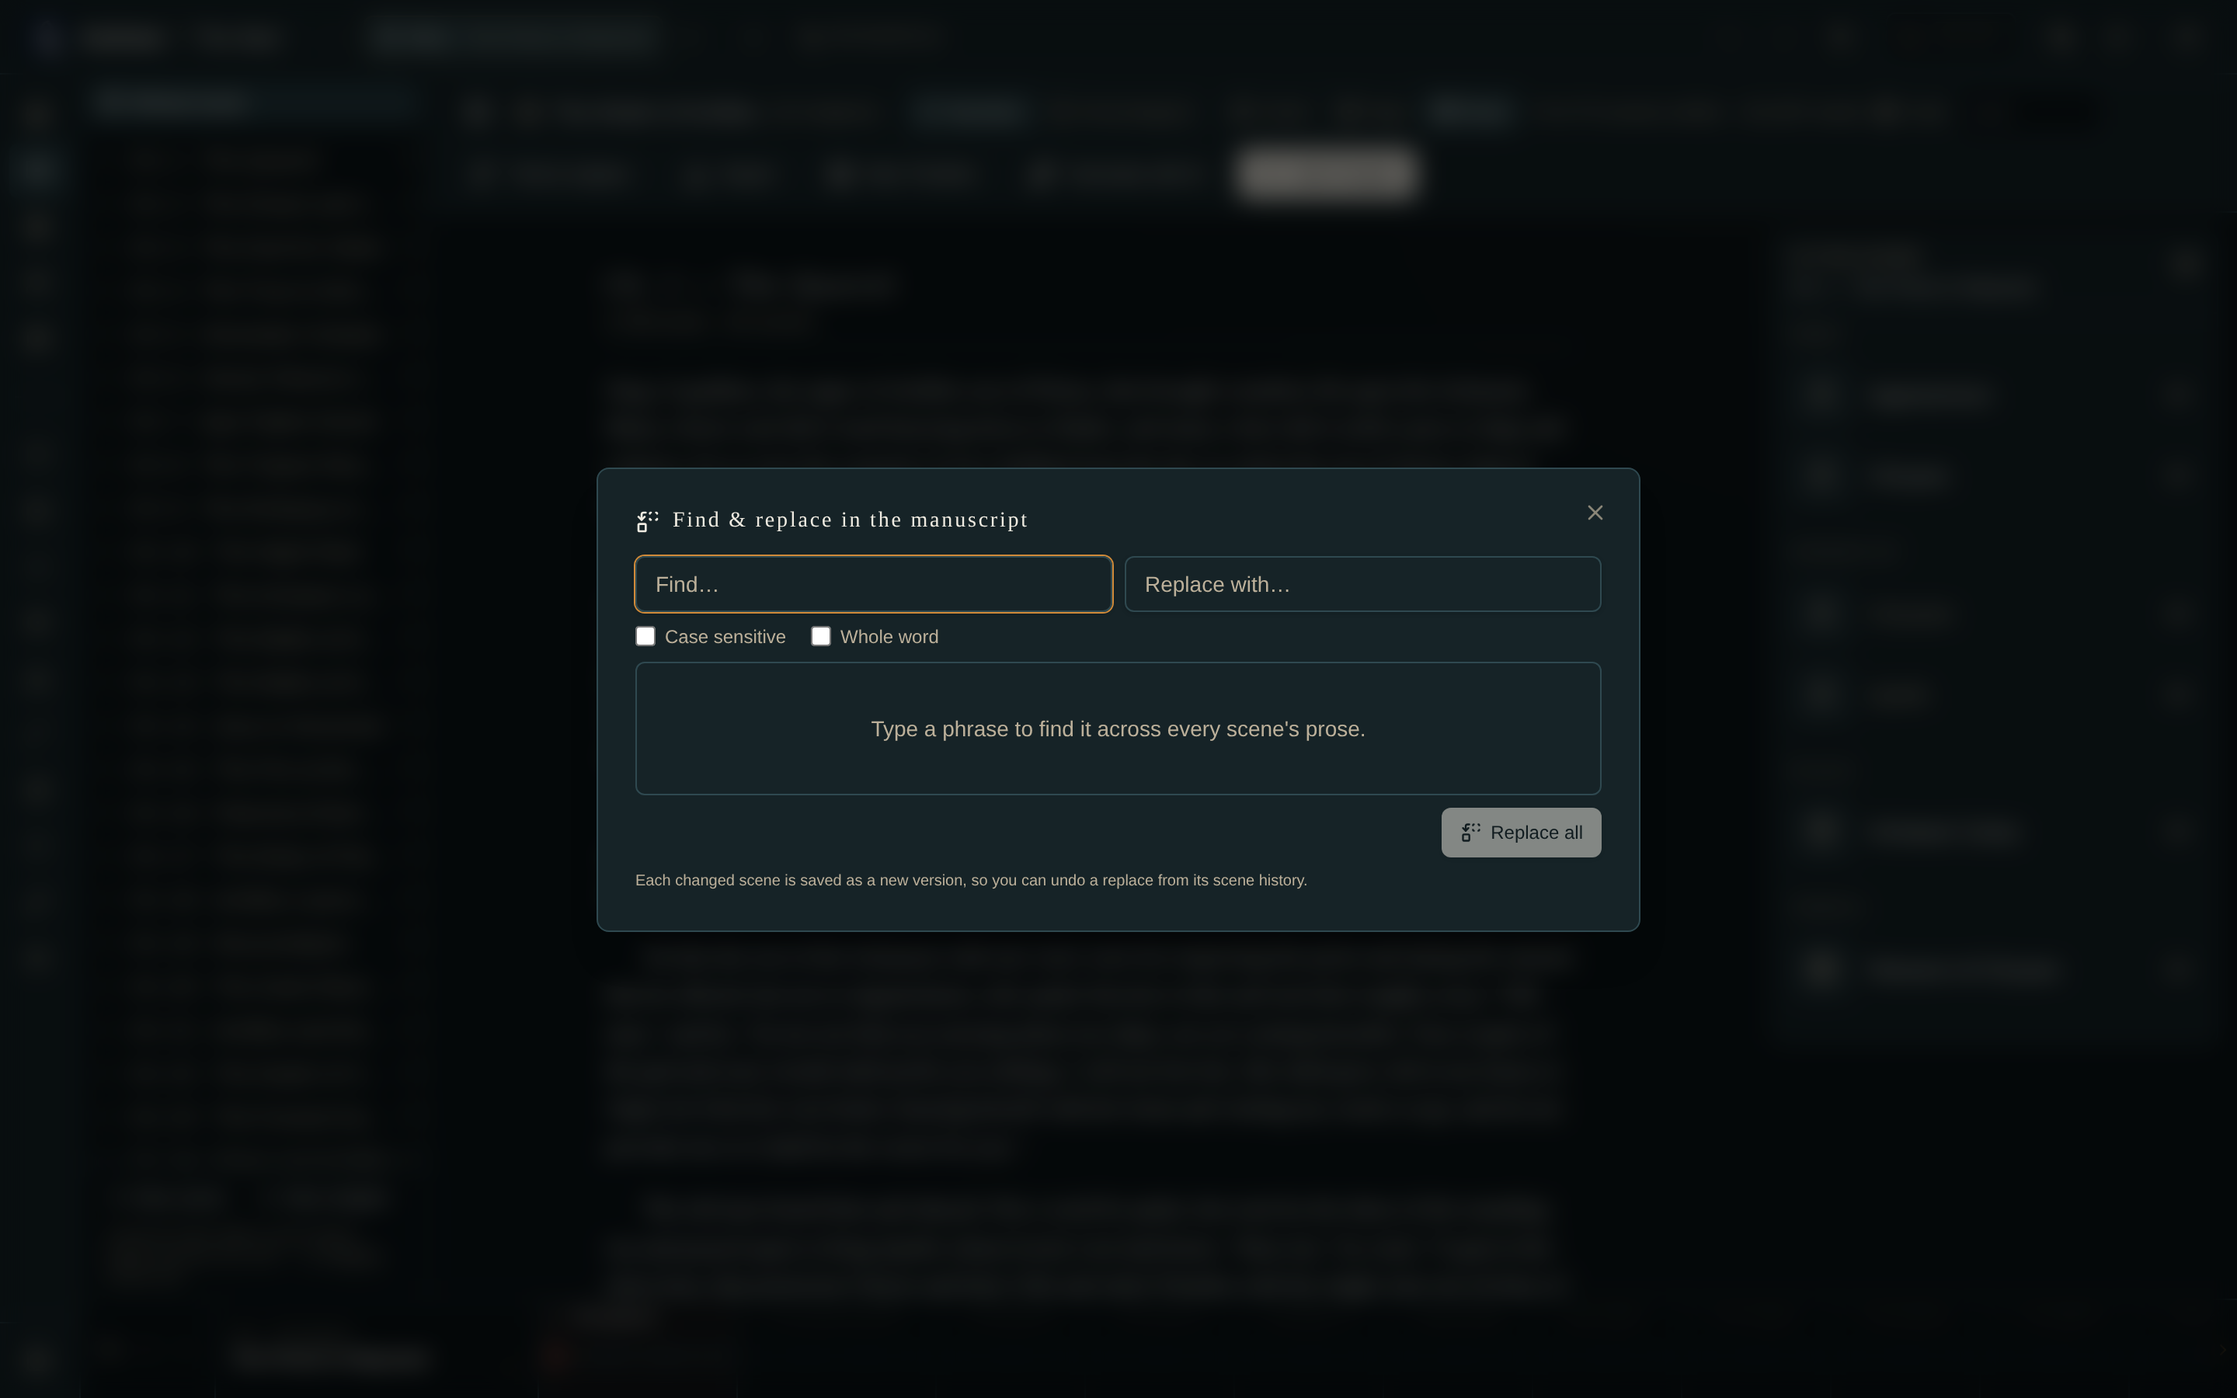
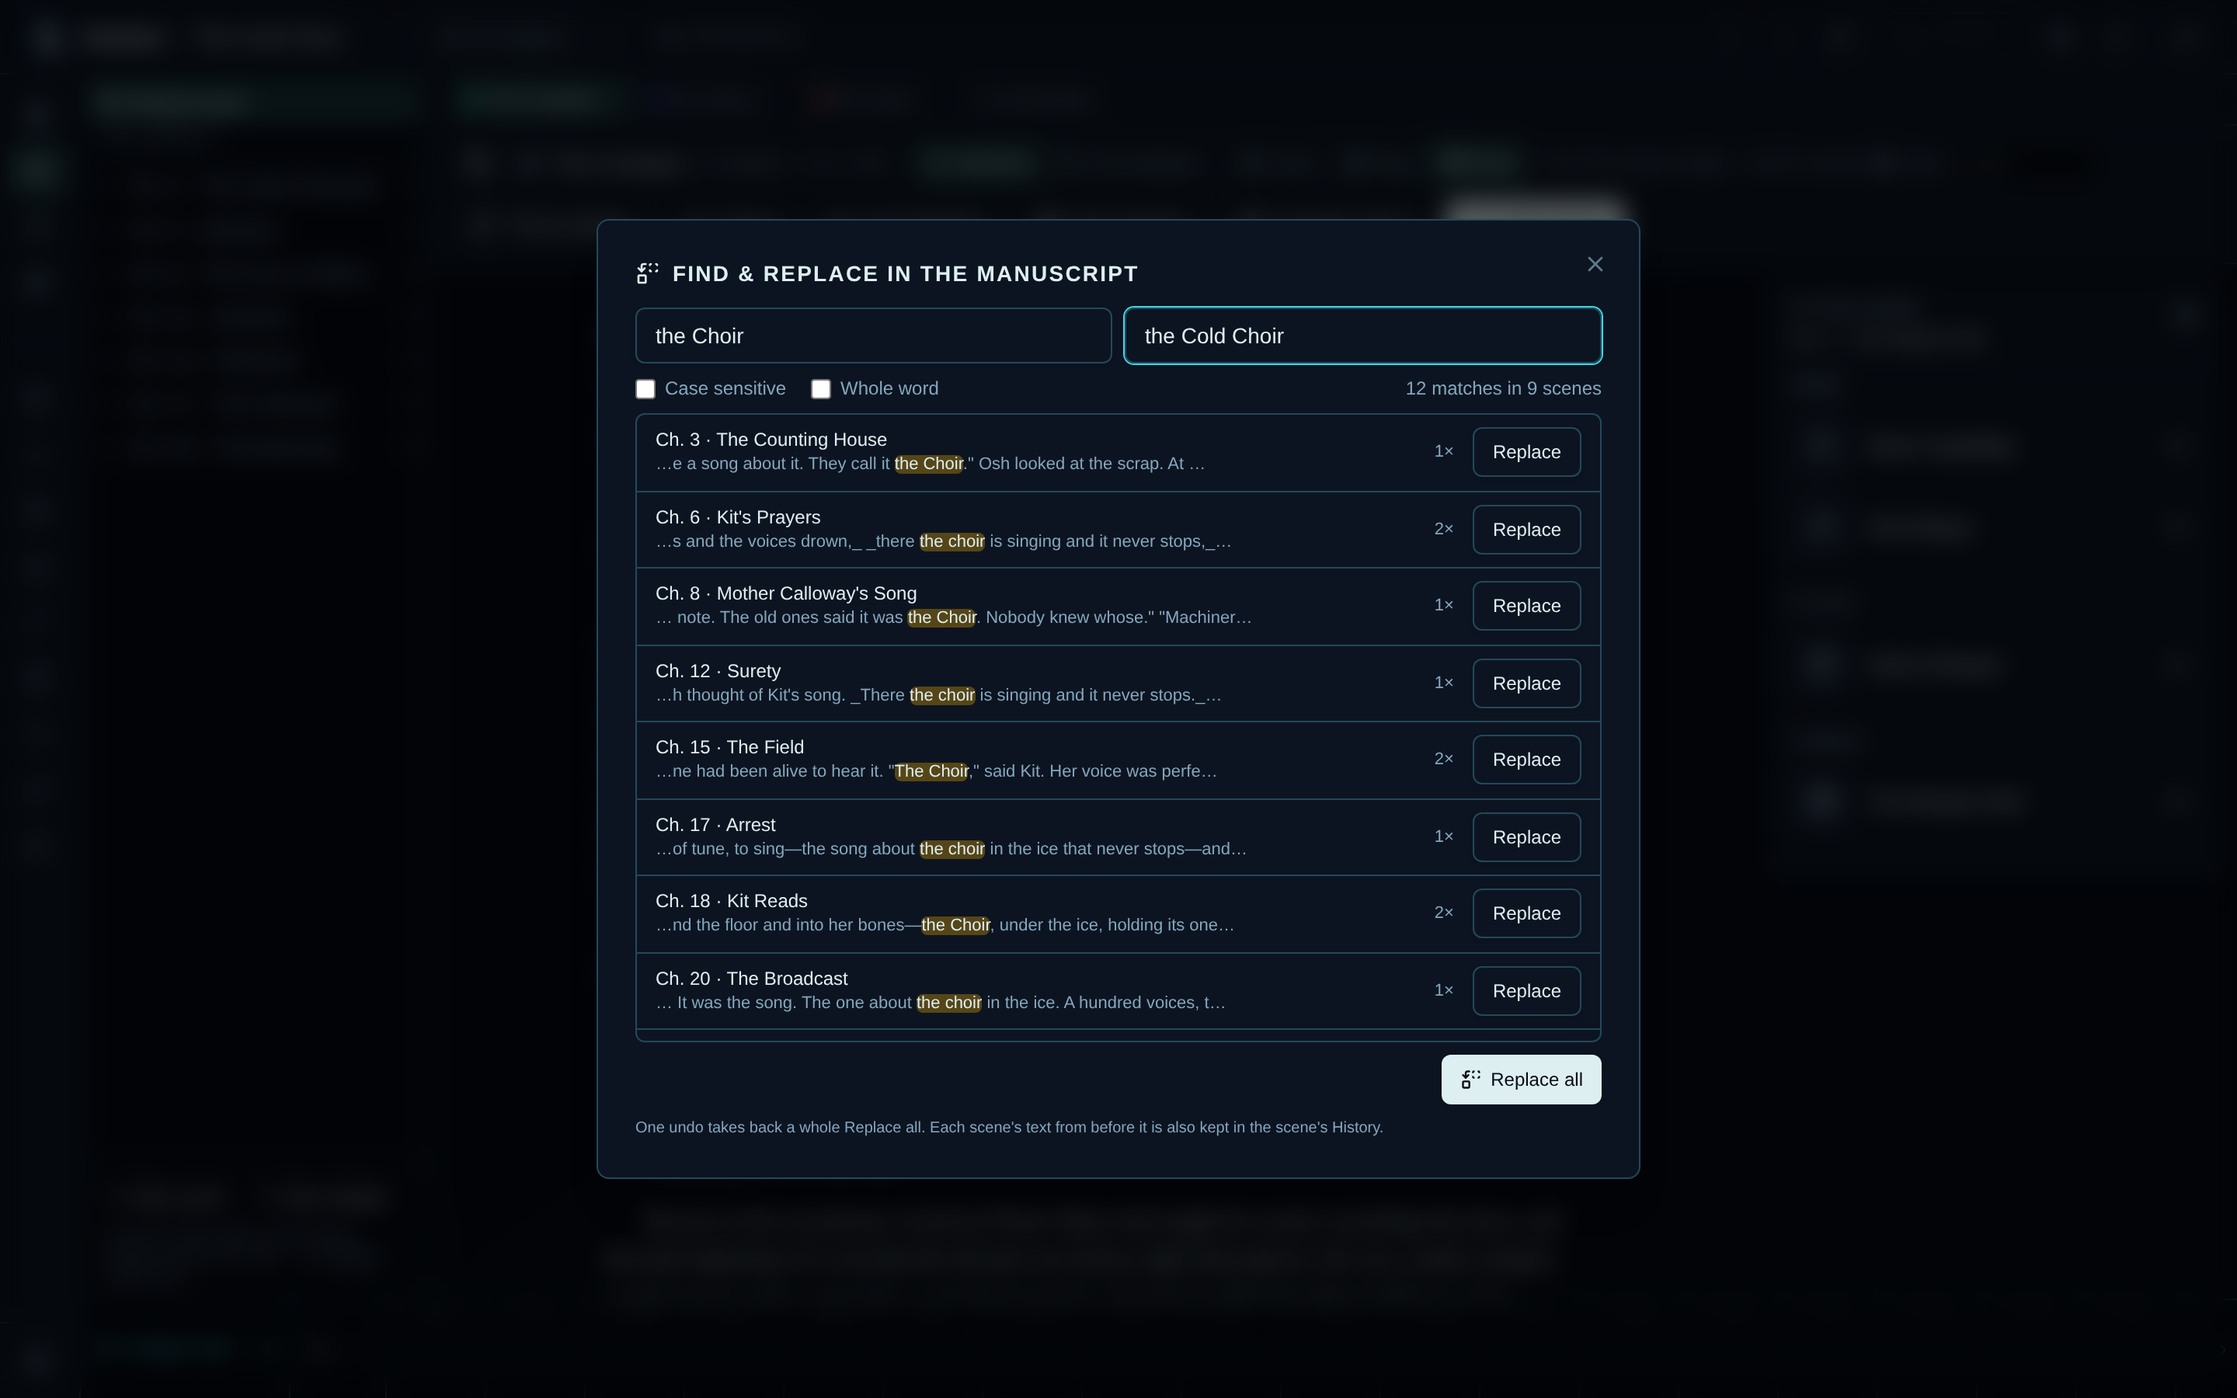
Replace all replaces all, in one write and one undo
Writer run 10: "*" -> "_" over 518 matches in 36 scenes left 352, then
292, and two more presses to reach 0. Each scene was its own awaited
write, so the dialog's live count fell while it worked and a second press
ran over a list half replaced.

replaceSceneTexts writes every scene in one transaction and one journal
group, the prose on its operations so undo restores it, each scene's
earlier text kept in its History. The dialog waits for it ("Replacing…",
buttons disabled) and only then says what it replaced; the character
rename rides in the same act.

Claude-Session: https://claude.ai/code/session_012HJuZ3q12imk2q9iq8d945

Changed region(s): [[0.25, 0.1867, 0.75, 0.8089], [0.5312, 0.0933, 0.75, 0.1556], [0.5, 0.2178, 0.5938, 0.2489]]

diff --git a/src/features/manuscript/FindReplaceDialog.tsx b/src/features/manuscript/FindReplaceDialog.tsx
@@ -4,7 +4,8 @@ import { Replace, Users } from 'lucide-react'
 import { Dialog, DialogContent } from '@/components/ui/dialog'
 import { Button } from '@/components/ui/button'
 import { Input } from '@/components/ui/input'
-import { useWorldSceneTexts, setSceneText } from '@/db/hooks/useManuscript'
+import { useWorldSceneTexts } from '@/db/hooks/useManuscript'
+import { replaceSceneTexts } from '@/db/hooks/useSceneStructure'
 import { useWorldEvents, useWorldChapters } from '@/db/hooks/useTimeline'
 import { useCharacters, updateCharacter } from '@/db/hooks/useCharacters'
 import {
@@ -30,6 +31,8 @@ export function FindReplaceDialog({ open, onOpenChange, worldId }: FindReplaceDi
   const [wholeWord, setWholeWord] = useState(false)
   const [renameChars, setRenameChars] = useState(true)
   const [summary, setSummary] = useState<string | null>(null)
+  // While a replace is being written: the buttons wait for it rather than run again over a list it is changing.
+  const [busy, setBusy] = useState(false)
 
   const opts: FindOptions = useMemo(() => ({ caseSensitive, wholeWord }), [caseSensitive, wholeWord])
 
@@ -65,27 +68,37 @@ export function FindReplaceDialog({ open, onOpenChange, worldId }: FindReplaceDi
     [characters, find, opts]
   )
 
+  const label = `Replaced “${find}” with “${replace}”`
+
   async function replaceScene(eventId: string, text: string) {
     const { text: next } = replaceAll(text, find, replace, opts)
-    await setSceneText(worldId, eventId, next)
+    setBusy(true)
+    try { await replaceSceneTexts(worldId, [{ eventId, text: next }], { label }) } finally { setBusy(false) }
   }
 
   async function replaceAllScenes() {
-    let scenesChanged = 0
-    let total = 0
-    for (const r of results) {
-      const { text: next, count } = replaceAll(r.scene.text, find, replace, opts)
-      if (count > 0) { await setSceneText(worldId, r.scene.eventId, next); scenesChanged++; total += count }
-    }
-    let renamed = 0
-    if (renameChars && replace) {
-      for (const c of matchedChars) {
-        await updateCharacter(c.id, {
-          name: replace,
-          ...renameNames(c, (a) => replaceAll(a, find, replace, opts).text),
-        })
-        renamed++
-      }
+    const changes = results
+      .map((r) => ({ eventId: r.scene.eventId, ...replaceAll(r.scene.text, find, replace, opts) }))
+      .filter((c) => c.count > 0)
+    const scenesChanged = changes.length
+    const total = changes.reduce((n, c) => n + c.count, 0)
+    const renaming = renameChars && replace ? matchedChars : []
+    const renamed = renaming.length
+    setBusy(true)
+    try {
+      await replaceSceneTexts(worldId, changes, {
+        label,
+        also: async () => {
+          for (const c of renaming) {
+            await updateCharacter(c.id, {
+              name: replace,
+              ...renameNames(c, (a) => replaceAll(a, find, replace, opts).text),
+            })
+          }
+        },
+      })
+    } finally {
+      setBusy(false)
     }
     const parts = [`Replaced ${total} occurrence${total === 1 ? '' : 's'} in ${scenesChanged} scene${scenesChanged === 1 ? '' : 's'}`]
     if (renamed > 0) parts.push(`and renamed ${renamed} character${renamed === 1 ? '' : 's'}`)
@@ -164,7 +177,7 @@ export function FindReplaceDialog({ open, onOpenChange, worldId }: FindReplaceDi
                       )}
                     </div>
                     <span className="shrink-0 text-[11px] tabular-nums text-[hsl(var(--muted-foreground))]">{r.count}×</span>
-                    <Button size="sm" variant="outline" className="shrink-0" onClick={() => replaceScene(r.scene.eventId, r.scene.text)}>
+                    <Button size="sm" variant="outline" className="shrink-0" disabled={busy} onClick={() => replaceScene(r.scene.eventId, r.scene.text)}>
                       Replace
                     </Button>
                   </li>
@@ -178,14 +191,14 @@ export function FindReplaceDialog({ open, onOpenChange, worldId }: FindReplaceDi
             <Button
               size="sm"
               className="ml-auto gap-1.5"
-              disabled={results.length === 0}
+              disabled={results.length === 0 || busy}
               onClick={replaceAllScenes}
             >
-              <Replace className="h-3.5 w-3.5" /> Replace all
+              <Replace className="h-3.5 w-3.5" /> {busy ? 'Replacing…' : 'Replace all'}
             </Button>
           </div>
           <p className="text-[10px] text-[hsl(var(--muted-foreground))]">
-            Each changed scene is saved as a new version, so you can undo a replace from its scene history.
+            One undo takes back a whole Replace all. Each scene's text from before it is also kept in the scene's History.
           </p>
         </div>
       </DialogContent>

diff --git a/e2e/findReplace.spec.ts b/e2e/findReplace.spec.ts
@@ -1,4 +1,6 @@
-import { test, expect } from '@playwright/test'
+import { test, expect, type Page } from '@playwright/test'
+import { fileURLToPath } from 'url'
+import * as path from 'path'
 import { resetDB } from './helpers/reset'
 
 // Drives the manuscript-wide find & replace, including the character-rename
@@ -56,5 +58,58 @@ test.describe('Manuscript find & replace', () => {
     await page.goto(`/#/worlds/${worldId}/characters`, { waitUntil: 'load' })
     await expect(page.getByText('Nyra').first()).toBeVisible()
     await expect(page.getByText('Mira', { exact: true })).toHaveCount(0)
+  })
+
+  /*
+    Writer run 10: "*" → "_" over 518 matches in 36 scenes left 352, then 292,
+    and two more presses to reach 0 — each scene its own awaited write, the
+    count falling while it worked, and a second press running over a list half
+    replaced. Now it is one write, and one undo.
+  */
+  test('replaces every match in the book in one act, which one undo takes back', async ({ page }) => {
+    test.setTimeout(180_000)
+    await resetDB(page)
+    const fixture = path.resolve(path.dirname(fileURLToPath(import.meta.url)), 'fixtures/cold-choir.pwk')
+    await page.locator('input[type="file"][accept=".pwk,.pwb,application/json"]').setInputFiles(fixture)
+    await expect(page.getByRole('heading', { name: 'The Cold Choir' })).toBeVisible({ timeout: 60_000 })
+    await expect(page).toHaveURL(/#\/worlds\/[^/]+/)
+    const worldId = page.url().split('/worlds/')[1].split('/')[0]
+    const underscores = (p: Page) => p.evaluate(async () => {
+      const db = (window as { __pwdb?: never }).__pwdb as unknown as Record<string, { toArray: () => Promise<Array<{ text: string }>> }>
+      return (await db.sceneTexts.toArray()).reduce((n, s) => n + (s.text.match(/_/g) ?? []).length, 0)
+    })
+
+    await page.goto(`/#/worlds/${worldId}/manuscript?view=read`, { waitUntil: 'load' })
+    await page.getByRole('button', { name: 'Find & replace' }).click()
+    const dialog = page.getByRole('dialog')
+    await dialog.getByPlaceholder('Find…').fill('_')
+    await dialog.getByPlaceholder('Replace with…').fill('*')
+    await expect(dialog.getByText('560 matches in 39 scenes')).toBeVisible()
+    // Hold the prose table for a moment, so the write has to wait its turn and
+    // the dialog can be seen waiting with it rather than offering a second press.
+    await page.evaluate(() => {
+      const db = (window as { __pwdb?: never }).__pwdb as unknown as {
+        transaction: (mode: string, table: unknown, fn: () => Promise<void>) => Promise<void>
+        sceneTexts: { count: () => Promise<number> }
+      }
+      const until = Date.now() + 2_000
+      ;(window as { held?: Promise<void> }).held = db.transaction('rw', db.sceneTexts, async () => {
+        while (Date.now() < until) await db.sceneTexts.count()
+      })
+    })
+    await dialog.getByRole('button', { name: 'Replace all' }).click()
+    await expect(dialog.getByRole('button', { name: 'Replacing…' })).toBeDisabled()
+    await expect(dialog.getByText('Replaced 560 occurrences in 39 scenes.')).toBeVisible()
+    await expect(dialog.getByRole('button', { name: 'Replace all' })).toBeVisible()
+    // Said once it is done, and it is: nothing is left for a second press.
+    expect(await underscores(page)).toBe(0)
+    await expect(dialog.getByText('0 matches in 0 scenes')).toBeVisible()
+
+    await page.keyboard.press('Escape')
+    const undo = page.getByRole('button', { name: 'Undo', exact: true })
+    await expect(undo).toHaveAttribute('title', /^Undo: Replaced “_” with “\*”/)
+    await undo.click()
+    // One undo, every scene.
+    await expect.poll(() => underscores(page)).toBe(560)
   })
 })

diff --git a/src/db/hooks/__tests__/replaceSceneTexts.test.ts b/src/db/hooks/__tests__/replaceSceneTexts.test.ts
@@ -1,0 +1,78 @@
+import 'fake-indexeddb/auto'
+import { describe, it, expect, beforeEach, afterAll } from 'vitest'
+import { db } from '@/db/database'
+import { createWorld } from '@/db/hooks/useWorlds'
+import { createTimeline, createChapter, createEvent } from '@/db/hooks/useTimeline'
+import { setSceneText } from '@/db/hooks/useManuscript'
+import { updateCharacter } from '@/db/hooks/useCharacters'
+import { undoLast } from '@/db/hooks/useOperations'
+import { replaceSceneTexts } from '@/db/hooks/useSceneStructure'
+
+/**
+ * Find & replace's Replace all, against the real hooks: every scene changes in
+ * one act — all of them or none — and one undo puts every one back, with the
+ * character it renamed.
+ */
+
+beforeEach(async () => {
+  await db.delete()
+  await db.open()
+})
+
+afterAll(async () => {
+  await db.delete()
+})
+
+async function seed(texts: string[]) {
+  const world = await createWorld({ name: 'W', description: '' })
+  const tl = await createTimeline({ worldId: world.id, name: 'Main', description: '', color: '#fff' })
+  const ch = await createChapter({ worldId: world.id, timelineId: tl.id, number: 1, title: 'One', synopsis: '' })
+  const ids: string[] = []
+  for (const [i, text] of texts.entries()) {
+    const e = await createEvent({
+      worldId: world.id, chapterId: ch.id, timelineId: tl.id, title: `s${i}`, description: '',
+      locationMarkerId: null, involvedCharacterIds: [], involvedItemIds: [], tags: [], sortOrder: i + 1,
+    })
+    await setSceneText(world.id, e.id, text)
+    ids.push(e.id)
+  }
+  await db.characters.add({
+    id: 'mira', worldId: world.id, name: 'Mira', description: '', aliases: [], tags: [],
+    portraitImageId: null, isAlive: true, color: null, createdAt: 0, updatedAt: 0,
+  } as never)
+  return { worldId: world.id, ids }
+}
+
+const proseOf = async (ids: string[]) =>
+  Promise.all(ids.map(async (id) => (await db.sceneTexts.where('eventId').equals(id).first())?.text ?? null))
+
+describe('replaceSceneTexts', () => {
+  it('replaces in every scene, and one undo puts every scene and the renamed character back', async () => {
+    const { worldId, ids } = await seed(['Mira ran.', 'Mira hid.', 'Mira sang.'])
+    await replaceSceneTexts(worldId, ids.map((id, i) => ({ eventId: id, text: ['Nyra ran.', 'Nyra hid.', 'Nyra sang.'][i] })), {
+      label: 'Replaced “Mira” with “Nyra”',
+      also: () => updateCharacter('mira', { name: 'Nyra' }),
+    })
+    expect(await proseOf(ids)).toEqual(['Nyra ran.', 'Nyra hid.', 'Nyra sang.'])
+    expect((await db.characters.get('mira'))?.name).toBe('Nyra')
+    // Each scene's text from before the replace is in its History.
+    for (const id of ids) {
+      expect((await db.sceneRevisions.where('eventId').equals(id).toArray()).map((r) => r.text)).toContain(
+        (['Mira ran.', 'Mira hid.', 'Mira sang.'])[ids.indexOf(id)],
+      )
+    }
+
+    await undoLast(worldId)
+    expect(await proseOf(ids)).toEqual(['Mira ran.', 'Mira hid.', 'Mira sang.'])
+    expect((await db.characters.get('mira'))?.name).toBe('Mira')
+  })
+
+  it('writes nothing at all when any part of it fails', async () => {
+    const { worldId, ids } = await seed(['Mira ran.', 'Mira hid.'])
+    await expect(replaceSceneTexts(worldId, ids.map((id) => ({ eventId: id, text: 'gone' })), {
+      label: 'x',
+      also: async () => { throw new Error('rename failed') },
+    })).rejects.toThrow('rename failed')
+    expect(await proseOf(ids)).toEqual(['Mira ran.', 'Mira hid.'])
+  })
+})

diff --git a/src/db/hooks/useSceneStructure.ts b/src/db/hooks/useSceneStructure.ts
@@ -267,6 +267,41 @@ export async function startChapter(opts: {
 }
 
 /**
+ * Set the prose of many scenes as one act — Find & replace's **Replace all**.
+ * One transaction, so the book changes all at once or not at all, and one
+ * journal group, so one undo puts every scene back. Each scene's outgoing text
+ * is also kept in its History (`replaceProse`).
+ *
+ * Writer run 10 replaced 518 matches across 36 scenes one awaited write at a
+ * time: the dialog's live count fell scene by scene while it worked, and a
+ * second press ran again over a list already half replaced.
+ *
+ * `also` runs inside the same act: the dialog renames characters there.
+ */
+export async function replaceSceneTexts(
+  worldId: string,
+  changes: readonly { eventId: string; text: string }[],
+  opts: { label: string; also?: () => Promise<void> },
+): Promise<void> {
+  if (changes.length === 0 && !opts.also) return
+  await db.transaction(
+    'rw',
+    [db.events, db.sceneTexts, db.sceneRevisions, db.characters, db.operations, db.tombstones],
+    () => journalGroup(async () => {
+      for (const { eventId, text } of changes) {
+        const before = await proseOf(eventId)
+        if (before === text) continue
+        await journalUpdate('event', db.events, eventId, { updatedAt: Date.now() }, [], {
+          prose: [{ eventId, before, after: text || null }],
+        })
+        await replaceProse(worldId, eventId, text)
+      }
+      await opts.also?.()
+    }, { label: opts.label }),
+  )
+}
+
+/**
  * Join a chapter onto the one before it: its scenes to the end of that
  * chapter, in order, its synopsis, notes and word goal into that chapter's (see
  * `mergeChapterFields`), and the chapter itself removed. Nothing but scenes

diff --git a/docs/GUIDE.md b/docs/GUIDE.md
@@ -2239,8 +2239,11 @@ match count and a highlighted preview.
   name, Kathala offers to rename that character too (its name *and* aliases),
   so the cast list stays in sync with the prose.
 
-Every scene changed by a replace is saved as a new version, so you can undo it
-from that scene's [history](#scene-history).
+**Replace all** changes every scene at once, in one step: the dialog says
+*Replacing…* while it writes and reports what it replaced only when it is done,
+with nothing left over for a second press. **Undo** takes the whole replace back
+in one step, with any character it renamed. Each scene's text from before it is
+also kept in that scene's [history](#scene-history).
 
 ### Scene history
 
